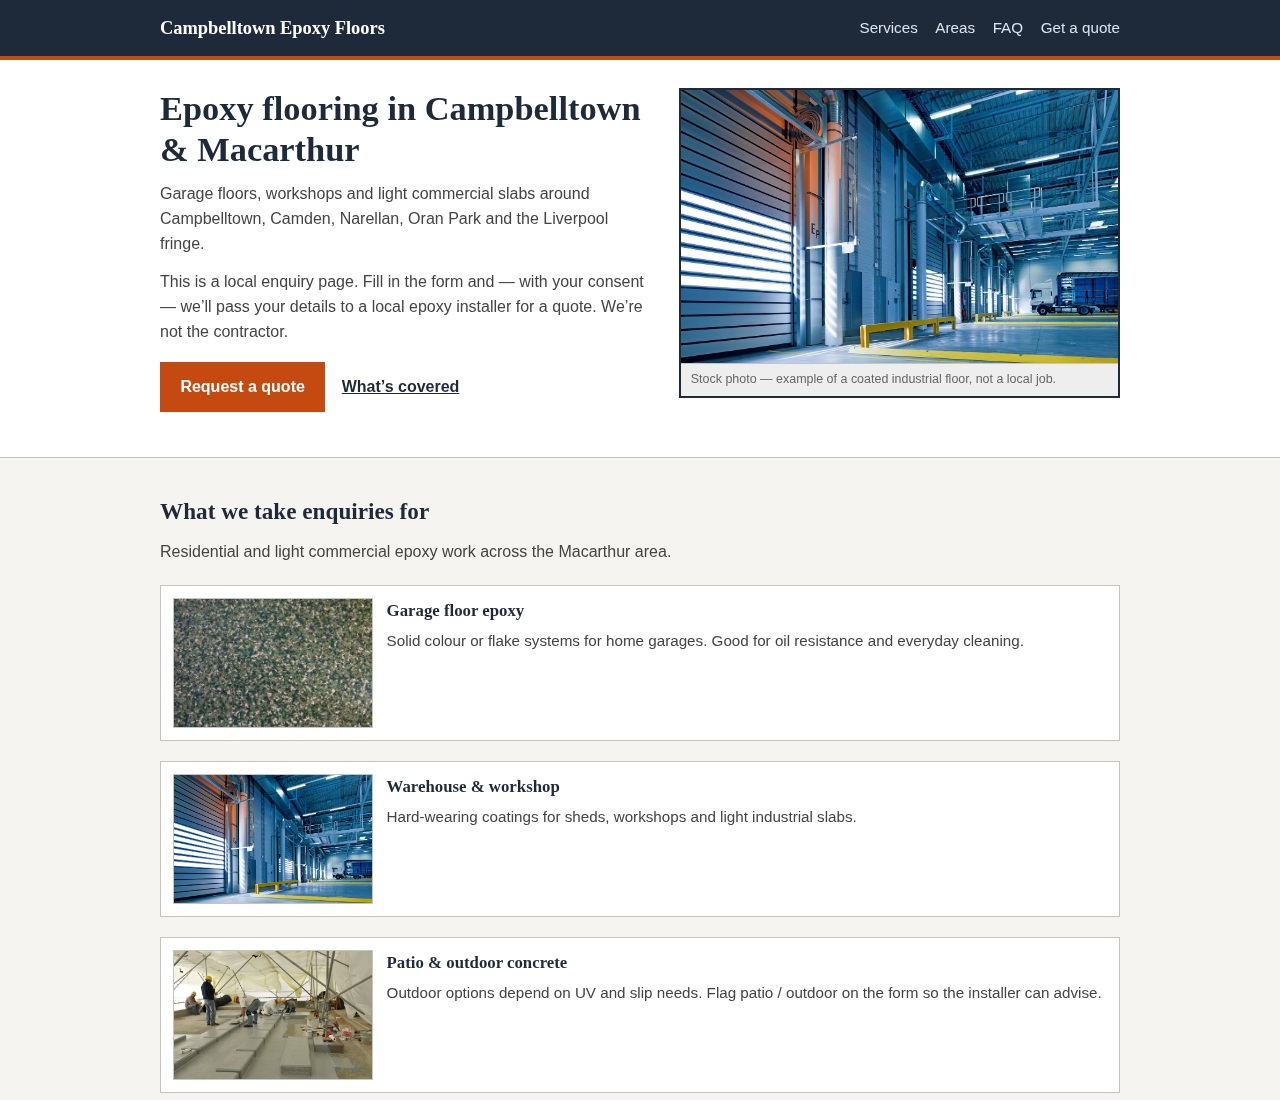
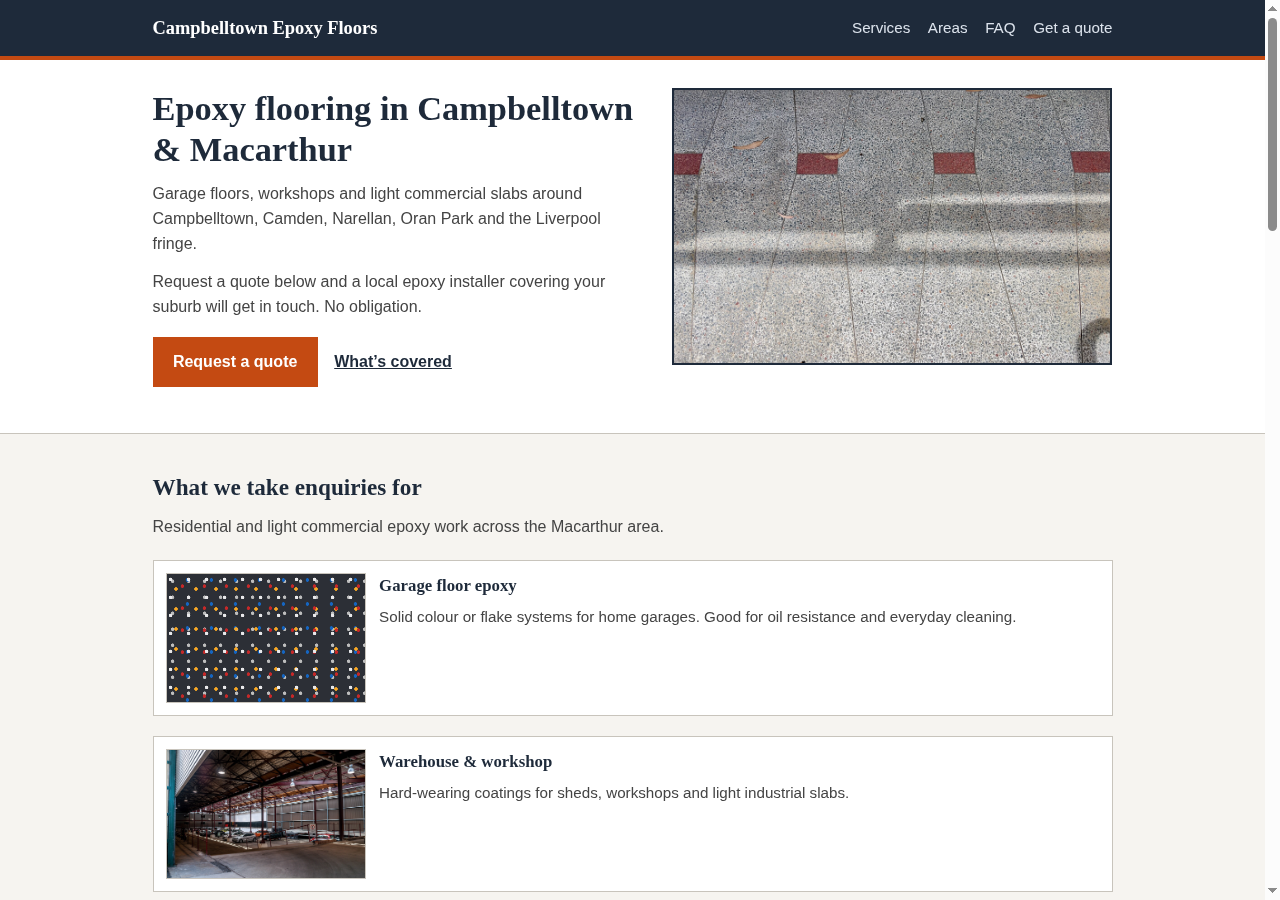
Replace non-AU stock photos with Australian Commons images
Prefer Wikimedia photos geotagged or described as NSW/VIC/QLD.
Use local CSS colour panels where no free AU photo fits
(epoxy flake/resin; stump-grinder close-up). Update ATTRIBUTION
and desktop-hero screenshots.

diff --git a/index.html b/index.html
@@ -73,7 +73,7 @@
             src="assets/images/warehouse-floor.jpg"
             width="1400"
             height="935"
-            alt="Clean industrial warehouse floor with coated concrete surface"
+            alt="Polished concrete floor in a Mascot NSW office building"
             loading="eager"
             decoding="async">
         </figure>
@@ -87,28 +87,28 @@
 
         <div class="service-list">
           <article class="service">
-            <img src="assets/images/flake-epoxy.jpg" width="700" height="700" alt="Close-up of decorative flake epoxy floor finish" loading="lazy" decoding="async">
+            <div class="photo-panel panel-flake" role="img" aria-label="Decorative flake epoxy colour panel"></div>
             <div>
               <h3>Garage floor epoxy</h3>
               <p>Solid colour or flake systems for home garages. Good for oil resistance and everyday cleaning.</p>
             </div>
           </article>
           <article class="service">
-            <img src="assets/images/warehouse-floor.jpg" width="700" height="468" alt="Warehouse interior with smooth coated concrete floor" loading="lazy" decoding="async">
+            <img src="assets/images/warehouse-interior-au.jpg" width="700" height="468" alt="Tempe tram depot warehouse interior with concrete floor, Sydney NSW" loading="lazy" decoding="async">
             <div>
               <h3>Warehouse &amp; workshop</h3>
               <p>Hard-wearing coatings for sheds, workshops and light industrial slabs.</p>
             </div>
           </article>
           <article class="service">
-            <img src="assets/images/epoxy-application.jpg" width="700" height="465" alt="Workers applying grey epoxy coating to a concrete floor" loading="lazy" decoding="async">
+            <img src="assets/images/epoxy-application.jpg" width="700" height="465" alt="Honed and polished concrete floor by a Queensland surface-prep company" loading="lazy" decoding="async">
             <div>
               <h3>Patio &amp; outdoor concrete</h3>
               <p>Outdoor options depend on UV and slip needs. Flag patio / outdoor on the form so the installer can advise.</p>
             </div>
           </article>
           <article class="service">
-            <img src="assets/images/resinous-epoxy.jpg" width="700" height="536" alt="Grey resinous epoxy floor in a commercial building" loading="lazy" decoding="async">
+            <div class="photo-panel panel-resin" role="img" aria-label="Solid colour resinous epoxy colour panel"></div>
             <div>
               <h3>Flake &amp; decorative systems</h3>
               <p>Multi-flake blends that hide dust and tyre marks — common in newer Macarthur estate garages.</p>

diff --git a/assets/styles.css b/assets/styles.css
@@ -438,3 +438,32 @@ details p {
 @media (prefers-reduced-motion: reduce) {
   html { scroll-behavior: auto; }
 }
+
+/* Local colour panels used when no free AU photo fits the slot */
+.photo-panel {
+  width: 100%;
+  height: 160px;
+  border: 1px solid var(--line);
+}
+.panel-flake {
+  background:
+    radial-gradient(circle at 20% 30%, #e8e8ea 1.5px, transparent 2px),
+    radial-gradient(circle at 70% 55%, #c62828 1.5px, transparent 2px),
+    radial-gradient(circle at 45% 75%, #f9a825 1.5px, transparent 2px),
+    radial-gradient(circle at 85% 25%, #1565c0 1.5px, transparent 2px),
+    radial-gradient(circle at 35% 45%, #bdbdbd 1.5px, transparent 2px),
+    #2c2f36;
+  background-size: 18px 18px, 22px 22px, 20px 20px, 24px 24px, 16px 16px, auto;
+}
+.panel-resin {
+  background: linear-gradient(160deg, #6e7178 0%, #9a9da3 40%, #5c5f66 70%, #7a7d84 100%);
+}
+.panel-stump {
+  background:
+    radial-gradient(ellipse at 30% 40%, #7a6238 0%, transparent 55%),
+    radial-gradient(ellipse at 70% 70%, #4a5535 0%, transparent 50%),
+    linear-gradient(180deg, #3e4a30 0%, #2a3220 100%);
+}
+@media (min-width: 720px) {
+  .service .photo-panel { height: 130px; }
+}
